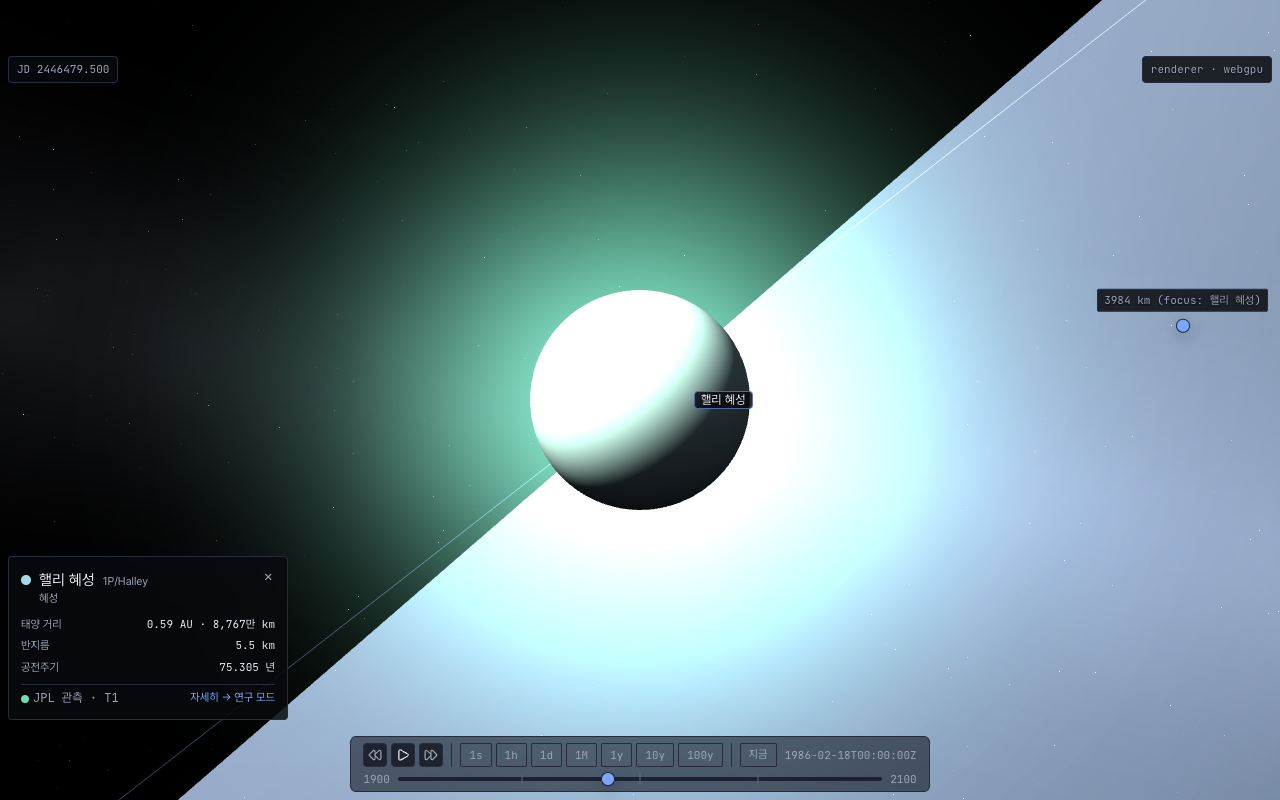
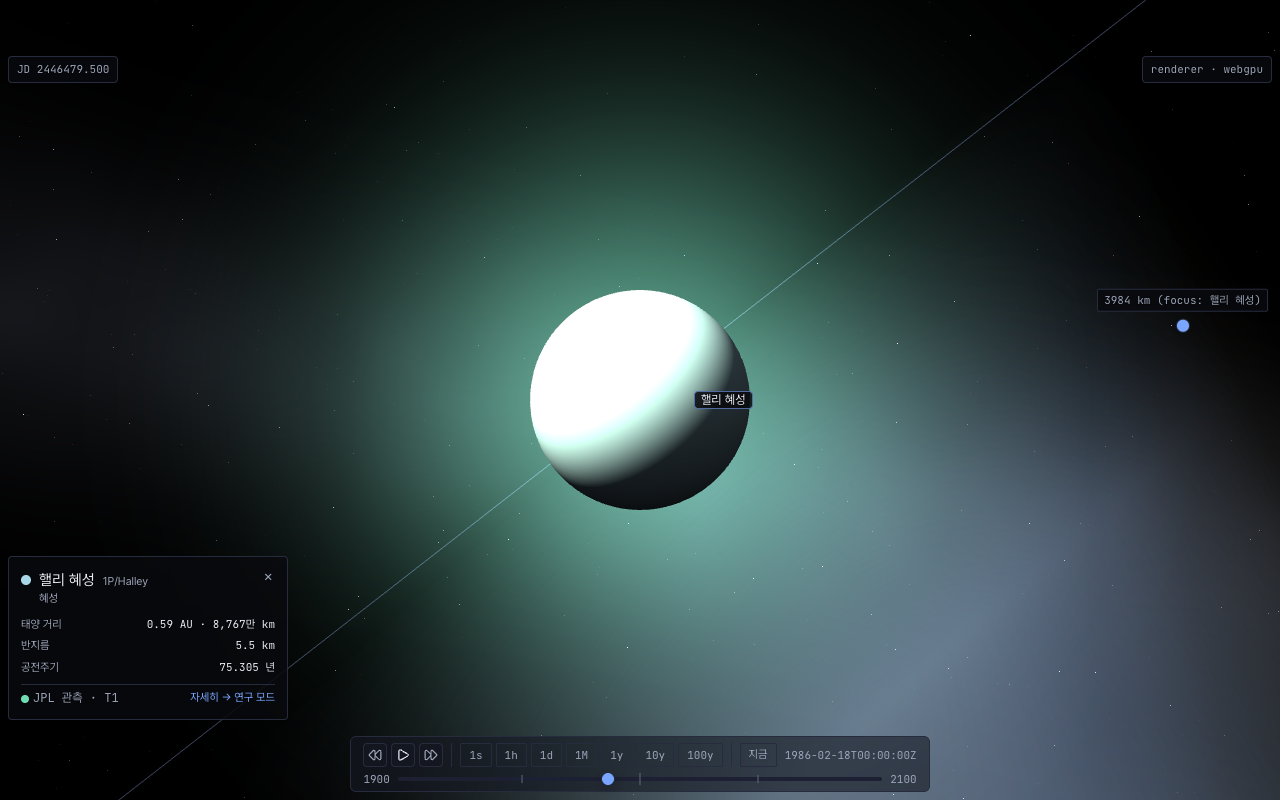
fix(core): #1329 혜성 꼬리 포커스 화면 시각 보정 — 머리 폭 · 머리 세기 · 화면 점유 근접 페이드
원인: 리본 머리(t = 0) 반폭이 꼬리 끝 반폭의 0.25 배로만 정해져 코마 반지름과 무관했다.
핼리 근일점 포커스에서 그 값이 코마 반지름의 4.5 배(이온) · 9 배(먼지)라 리본 끝단이 코마 밖으로
드러나 핵 중심을 지나는 직선 경계가 됐고, 머리 쪽 세기가 최대인 띠가 카메라 근처에서 화면 절반을 덮어
이온 + 먼지 ALPHA_ADD 가 백색으로 포화했다 (PR #1331 리뷰 권고 1 · 사용자 결정 (b)).

- 머리 쪽 반폭 = min(끝 반폭 x 0.25, 코마 반지름) — 0.25 를 COMET_TAIL_HEAD_WIDTH_FRACTION 으로 명명.
- 리본 세기는 머리에서 코마 반지름만큼 가는 동안 0 -> 1 (vHeadFade) — 코마가 머리를 넘겨받는다.
- 리본 · 코마 화면 점유 (반폭 / (깊이 x tan(fov/2))) 가 1 을 넘으면 그 배수만큼 알파를 낮춘다.
  기준은 화면 자신이라 새 임계 없음. uniform uTanHalfFov = 1 / P[1][1].
- 블렌딩 · 피크 알파 불변 (합 1 정규화는 기본 카메라 꼬리 휘도를 절반으로 깎아 기각).
- 상수 근거 주석 (리뷰 권고 4) · 출처 「」 -> 취지 표기 (권고 5).
- CHANGELOG: 보정 전 -> 후 실측 Notes (권고 2), 원일점 진행 0 단계 수 37 -> 36 정정.
- 스크린샷 3장 교체 (같은 구도) + 보정 전/후 포커스 비교 1장.

Refs #1329

diff --git a/packages/core/src/scene/comet-tail.ts b/packages/core/src/scene/comet-tail.ts
@@ -65,25 +65,39 @@ import { LOG_DEPTH_FRAGMENT_WRITE_GLSL } from './log-depth.js';
  * 활동 개시 태양 거리 (AU) — 물 얼음 승화가 혜성 활동을 지배하기 시작하는 거리의 **통상값**.
  * 출처: Meech, K. J. & Svoren, J. (2004), "Using Cometary Activity to Trace the Physical and Chemical Evolution of
  * Cometary Nuclei", in *Comets II* (Festou · Keller · Weaver 편, Univ. Arizona Press), pp. 317–335 —
- * 「약 3 AU 안쪽에서는 물 얼음이 활동의 주 동력」.
+ * 취지: 약 3 AU 안쪽에서는 물 얼음이 활동의 주 동력이다 (요지 — 원문 직접 인용 아님).
  */
 export const COMET_ACTIVITY_ONSET_AU = 3;
 /** 광도 법칙의 정규화 거리 (AU) — `m = M1 + 5 log Δ + 2.5 n log r` 의 `M1` 이 r = 1 AU 기준이라 새 기준이 아니다. */
 const ACTIVITY_NORMALIZATION_AU = 1;
 /** r = 1 AU 에서 이온 꼬리 길이 (AU, 세계 길이 — 줌에 따라 화면 길이가 변한다). 사용자 결정 Q2. */
 export const COMET_ION_TAIL_LENGTH_1AU = 0.3;
-/** 먼지 꼬리 길이 / 이온 꼬리 길이 (D-T2). */
+/**
+ * 먼지 꼬리 길이 / 이온 꼬리 길이. 출발값 = 임의 (이슈 #1329 설계안 박제값, D-T2 에서 확정) — 먼지가 이온보다 짧게
+ * 보이는 통상 모습만 반영했다.
+ */
 export const COMET_DUST_TAIL_LENGTH_RATIO = 0.5;
-/** 먼지 꼬리 끝의 횡변위 / 길이 — `c(t) = head + axis·tL + lag·k·t²L` 의 `k` (D-T2). */
+/**
+ * 먼지 꼬리 끝의 횡변위 / 길이 — `c(t) = head + axis·tL + lag·k·t²L` 의 `k`. 출발값 = 임의 (설계안 박제값, D-T2 에서 확정).
+ */
 export const COMET_DUST_TAIL_CURVE = 0.3;
-/** 이온 꼬리 끝(t = 1) 반폭 / 이온 꼬리 길이. 먼지 꼬리는 이 값의 `COMET_DUST_WIDTH_FACTOR` 배 (결정 3 — 폭은 이온의 2배). */
+/**
+ * 이온 꼬리 끝(t = 1) 반폭 / 이온 꼬리 길이. 출발값 = 임의 (D-T2 에서 확정) — ADR 에 값이 없어 PR1 이 정했다.
+ * 먼지 꼬리는 이 값의 `COMET_DUST_WIDTH_FACTOR` 배 (ADR 결정 3 — 폭은 이온의 2배, 같은 t 에서).
+ */
 export const COMET_ION_TAIL_HALF_WIDTH_RATIO = 0.04;
 export const COMET_DUST_WIDTH_FACTOR = 2;
+/**
+ * 머리 쪽(t = 0) 반폭 / 꼬리 끝 반폭 — 선형으로 넓어진다. 출발값 = 임의 (D-T2 에서 확정). 단 머리 쪽 반폭은 코마 반지름
+ * (화면 하한 적용 후) 을 넘지 않게 자른다 — 포커스 근접에서 리본 끝단이 코마 밖으로 드러나 핵 중심을 지나는 직선 경계가
+ * 생겼다 (PR #1331 리뷰 권고 1 · 사용자 육안). 이 상한은 새 임계가 아니라 이미 있는 코마 반지름이다.
+ */
+export const COMET_TAIL_HEAD_WIDTH_FRACTION = 0.25;
 /** 가시 코마 반지름 차수 (km, r = 1 AU, × a) — 10⁴~10⁵ km. */
 export const COMET_COMA_RADIUS_1AU_KM = 1e5;
 /** 코마 화면 하한 지름 (**물리 px**, × min(a, 1)) — 사용자 결정 Q5 (glow marker 4.5 px 의 ≈ 3.5 배). */
 export const COMET_COMA_MIN_PX_1AU = 16;
-/** 리본 폭 화면 하한 (**물리 px**) — 멀리서 계단 소실 방지. */
+/** 리본 폭 화면 하한 (**물리 px**) — 멀리서 계단 소실 방지. 출발값 = 임의 (1 px 반폭 — 래스터화가 끊기지 않는 최소, D-T2). */
 export const COMET_TAIL_MIN_WIDTH_PX = 2;
 /** 리본 분절 수 (꼬리 1개당). 정점 = (분절 + 1) × 2. */
 export const COMET_TAIL_SEGMENTS = 32;
@@ -92,7 +106,13 @@ export const COMET_TAIL_SEGMENTS = 32;
 export const COMET_ION_RGB: readonly [number, number, number] = [0.35, 0.6, 1.0];
 export const COMET_DUST_RGB: readonly [number, number, number] = [1.0, 0.9, 0.7];
 export const COMET_COMA_RGB: readonly [number, number, number] = [0.55, 1.0, 0.85];
-/** 최대 알파 (밝기 1 기준) — ALPHA_ADD 라 겹치는 곳은 더해진다 (D-T2). */
+/**
+ * 최대 알파 (밝기 1 기준) — ALPHA_ADD 라 겹치는 곳은 더해진다. 출발값 = 임의 (D-T2 에서 확정).
+ * 포커스 화면 백색 포화 (PR #1331 사용자 결정 (b)) 는 이 배율이 아니라 겹침 자체를 줄여 해소했다 — 리본은 머리에서 코마
+ * 반지름만큼 0 → 1 로 켜져 코마 중심과 겹치지 않고 (`vHeadFade`), 화면을 넘는 성분은 근접 페이드로 흐려진다.
+ * 세 피크를 합 1 로 정규화 (0.45 · 0.3 · 0.25) 하는 대안은 기본 카메라 꼬리 휘도를 절반으로 깎아 (핼리 장면 근일점
+ * on − off 휘도 합: 같은 보정에 배율 유지 19,449 · 정규화 9,690) 「solar 화면 모습 유지」 와 충돌해 채택하지 않았다.
+ */
 export const COMET_COMA_PEAK_ALPHA = 0.9;
 export const COMET_ION_PEAK_ALPHA = 0.6;
 export const COMET_DUST_PEAK_ALPHA = 0.5;
@@ -239,15 +259,18 @@ uniform vec3 uAxis;
 uniform vec3 uLag;
 uniform vec4 uShape;
 uniform float uPxWorld;
+uniform float uTanHalfFov;
 
 varying vec2 vUv;
 varying float vKind;
 varying float vAlpha;
+varying float vHeadFade;
 varying float vFragmentDepth;
 
 const float DUST_CURVE = ${COMET_DUST_TAIL_CURVE.toFixed(4)};
 const float ION_HALF_WIDTH_RATIO = ${COMET_ION_TAIL_HALF_WIDTH_RATIO.toFixed(4)};
 const float DUST_WIDTH_FACTOR = ${COMET_DUST_WIDTH_FACTOR.toFixed(4)};
+const float HEAD_WIDTH_FRACTION = ${COMET_TAIL_HEAD_WIDTH_FRACTION.toFixed(4)};
 const float TAIL_MIN_HALF_PX = ${(COMET_TAIL_MIN_WIDTH_PX / 2).toFixed(4)};
 const float COMA_MIN_RADIUS_PX = ${(COMET_COMA_MIN_PX_1AU / 2).toFixed(4)};
 const float SIN_EPS = 1e-4;
@@ -261,14 +284,19 @@ void main(void) {
   float kind = position.z;
   vec3 p = uHead;
   float alpha = brightness;
+  // 코마 반지름 (세계 반지름 vs 화면 하한) — 코마 쿼드와 리본 머리 폭이 같은 값을 쓴다.
+  float headDepth = max((viewProjection * vec4(uHead, 1.0)).w, 0.0);
+  float comaRadius = max(uShape.z, COMA_MIN_RADIUS_PX * brightness * headDepth * uPxWorld);
+  vHeadFade = 1.0;
 
   if (kind < 0.5) {
     // 코마 — 카메라 right/up 평면의 쿼드 (view 행렬의 회전 행 = 카메라 기저, 손잡이 무관).
     vec3 right = vec3(view[0][0], view[1][0], view[2][0]);
     vec3 up = vec3(view[0][1], view[1][1], view[2][1]);
-    float depth = max((viewProjection * vec4(uHead, 1.0)).w, 0.0);
-    float radius = max(uShape.z, COMA_MIN_RADIUS_PX * brightness * depth * uPxWorld);
-    p = uHead + (right * position.x + up * position.y) * radius;
+    p = uHead + (right * position.x + up * position.y) * comaRadius;
+    // 카메라 근접 페이드 (화면 점유) — 리본과 같은 규칙. 코마가 화면 높이를 넘으면 넘는 배수만큼 흐려진다.
+    float comaCover = comaRadius / max(headDepth * uTanHalfFov, 1e-30);
+    alpha *= clamp(1.0 / max(comaCover, 1e-30), 0.0, 1.0);
     vUv = position.xy;
   } else {
     float t = position.x;
@@ -289,10 +317,20 @@ void main(void) {
     vec3 sideDir = sinTheta > SIN_EPS ? s / sLen : vec3(0.0);
     float depth = max((viewProjection * vec4(c, 1.0)).w, 0.0);
     float widthFactor = dust ? DUST_WIDTH_FACTOR : 1.0;
-    float halfWorld = uShape.x * ION_HALF_WIDTH_RATIO * widthFactor * (0.25 + 0.75 * t);
+    float tipHalf = uShape.x * ION_HALF_WIDTH_RATIO * widthFactor;
+    // 머리에서 가늘게 — 머리 쪽 반폭은 코마 반지름 이하 (리본 끝단이 코마 밖으로 드러나지 않게).
+    float headHalf = min(tipHalf * HEAD_WIDTH_FRACTION, comaRadius);
+    float halfWorld = mix(headHalf, tipHalf, t);
     float halfWidth = max(halfWorld, TAIL_MIN_HALF_PX * depth * uPxWorld);
     p = c + sideDir * (side * halfWidth);
-    alpha *= sinTheta;
+    // 카메라 근접 페이드 (화면 점유) — 이 지점의 리본 폭이 화면 높이를 넘으면 넘는 배수만큼 흐려진다.
+    // 점유율 = 반폭 / (깊이 · tan(fov/2)). 기준은 화면 자신이라 새 임계가 아니다. 기본 카메라 (solar) 는 리본 폭이
+    // 수 px 라 1 (무변화). 카메라 뒤 (깊이 0) 는 0.
+    float cover = halfWidth / max(depth * uTanHalfFov, 1e-30);
+    float nearFade = clamp(1.0 / max(cover, 1e-30), 0.0, 1.0);
+    alpha *= sinTheta * nearFade;
+    // 머리 세기 — 머리에서 코마 반지름만큼 가는 동안 0 → 1 (fragment 에서 clamp). 코마가 머리를 넘겨받는다.
+    vHeadFade = comaRadius > 0.0 ? (t * len) / comaRadius : 1.0;
     vUv = vec2(t, side);
   }
 
@@ -315,6 +353,7 @@ precision highp float;
 varying vec2 vUv;
 varying float vKind;
 varying float vAlpha;
+varying float vHeadFade;
 varying float vFragmentDepth;
 
 uniform float logDepthConstant;
@@ -337,7 +376,7 @@ void main(void) {
     intensity = COMA_PEAK * exp(-4.0 * r2) * (1.0 - r2);
     color = uComaColor;
   } else {
-    float along = (1.0 - vUv.x) * (1.0 - vUv.x);
+    float along = (1.0 - vUv.x) * (1.0 - vUv.x) * clamp(vHeadFade, 0.0, 1.0);
     float across = 1.0 - vUv.y * vUv.y;
     bool dust = vKind > 1.5;
     intensity = (dust ? DUST_PEAK : ION_PEAK) * along * across;
@@ -413,6 +452,8 @@ export interface CometTailUniforms extends CometTailFrame {
   scale: number;
   /** 깊이 1 에서 물리 px 1개의 세계 길이. */
   pxWorld: number;
+  /** 깊이 1 에서 화면 반높이의 세계 길이 (tan(fov/2)) — 근접 페이드 기준. */
+  tanHalfFov: number;
   logDepthConstant: number;
 }
 
@@ -459,6 +500,7 @@ export function createCometTail(scene: Scene, options: CometTailOptions): CometT
         'uLag',
         'uShape',
         'uPxWorld',
+        'uTanHalfFov',
         'logDepthConstant',
         'uComaColor',
         'uIonColor',
@@ -492,6 +534,8 @@ export function createCometTail(scene: Scene, options: CometTailOptions): CometT
     // 투영 행렬 [1][1] = 1/tan(fov/2) (scene 쪽 사본은 첫 render 전 미정이라 카메라에서 읽는다).
     const p11 = scene.activeCamera?.getProjectionMatrix().m[5] ?? 0;
     const pxWorld = p11 > 0 ? 2 / (p11 * height) : 0;
+    // 화면 반높이의 깊이 1 세계 길이 = tan(fov/2) = 1 / P[1][1] (근접 페이드의 화면 점유 기준).
+    const tanHalfFov = p11 > 0 ? 1 / p11 : 0;
     const maxZ = scene.activeCamera?.maxZ ?? 1e14;
     const logDepthConstant = 2.0 / (Math.log(maxZ + 1.0) / Math.LN2);
     tmpHead.set(frame.head[0], frame.head[1], frame.head[2]);
@@ -503,12 +547,14 @@ export function createCometTail(scene: Scene, options: CometTailOptions): CometT
     tmpShape.set(frame.ionLength, frame.dustLength, frame.comaRadius, frame.activity);
     material.setVector4('uShape', tmpShape);
     material.setFloat('uPxWorld', pxWorld);
+    material.setFloat('uTanHalfFov', tanHalfFov);
     material.setFloat('logDepthConstant', logDepthConstant);
     lastUniforms = {
       ...frame,
       sun: [s.x, s.y, s.z],
       scale,
       pxWorld,
+      tanHalfFov,
       logDepthConstant,
     };
   };

diff --git a/packages/core/src/scene/comet-tail.test.ts b/packages/core/src/scene/comet-tail.test.ts
@@ -29,6 +29,7 @@ import {
   COMET_DUST_TAIL_LENGTH_RATIO,
   COMET_ION_TAIL_LENGTH_1AU,
   COMET_TAIL_SEGMENTS,
+  COMET_TAIL_FRAGMENT_SHADER,
   COMET_TAIL_VERTEX_SHADER,
   buildCometTailGeometry,
   cometActivity,
@@ -211,6 +212,27 @@ describe('정점 셰이더 — a = 0 접기 · 축 정면 퇴화 분기 (결정 
     expect(COMET_TAIL_VERTEX_SHADER).toContain('vAlpha = alpha * on;');
     expect(COMET_TAIL_VERTEX_SHADER).toContain('sinTheta > SIN_EPS ? s / sLen : vec3(0.0)');
   });
+
+  it('PR #1331 포커스 보정 — 머리 반폭 ≤ 코마 반지름 · 머리 세기 0 → 1 · 화면 점유 근접 페이드 (리본 · 코마)', () => {
+    // 1. 머리에서 가늘게 — 끝단이 코마 밖으로 드러나지 않는다 (핵 중심 직선 경계 제거).
+    expect(COMET_TAIL_VERTEX_SHADER).toContain(
+      'float headHalf = min(tipHalf * HEAD_WIDTH_FRACTION, comaRadius);',
+    );
+    expect(COMET_TAIL_VERTEX_SHADER).toContain('float halfWorld = mix(headHalf, tipHalf, t);');
+    // 머리 세기 — 코마 반지름만큼 가는 동안 0 → 1.
+    expect(COMET_TAIL_VERTEX_SHADER).toContain(
+      'vHeadFade = comaRadius > 0.0 ? (t * len) / comaRadius : 1.0;',
+    );
+    expect(COMET_TAIL_FRAGMENT_SHADER).toContain('clamp(vHeadFade, 0.0, 1.0)');
+    // 2. 근접 페이드 — 화면 점유 (반폭 / (깊이 · tan(fov/2))) 가 1 을 넘는 배수만큼.
+    expect(COMET_TAIL_VERTEX_SHADER).toContain(
+      'float cover = halfWidth / max(depth * uTanHalfFov, 1e-30);',
+    );
+    expect(COMET_TAIL_VERTEX_SHADER).toContain('alpha *= sinTheta * nearFade;');
+    expect(COMET_TAIL_VERTEX_SHADER).toContain(
+      'float comaCover = comaRadius / max(headDepth * uTanHalfFov, 1e-30);',
+    );
+  });
 });
 
 // ── NullEngine ─────────────────────────────────────────────────────────────────────────────────────────
@@ -305,6 +327,10 @@ describe('createCometTail — 메시 · 머티리얼 계약 (NullEngine)', () =>
       2 / (f.scene.activeCamera!.getProjectionMatrix().m[5]! * 720),
       12,
     );
+    // 근접 페이드 기준 — tan(fov/2) = 1 / P[1][1].
+    expect(u.tanHalfFov).toBeCloseTo(1 / f.scene.activeCamera!.getProjectionMatrix().m[5]!, 12);
+    // 투영 행렬이 float32 저장이라 fov 해석식과는 float32 반올림 차수 (≈ 1e-8) 만 다르다.
+    expect(u.tanHalfFov).toBeCloseTo(Math.tan(f.scene.activeCamera!.fov / 2), 6);
   });
 });
 

diff --git a/CHANGELOG.md b/CHANGELOG.md
@@ -10,15 +10,24 @@ Semantic Versioning을 따른다.
 - **[#1329] 혜성 꼬리 · 코마 렌더 경로 + 소프트웨어 게이트 + `?comettails=` (PR1)** ([#1329](https://github.com/coseo12/astro-simulator/issues/1329)). 혜성 (`kind: 'comet'` 전수 — 핼리 · 엔케 · 스위프트-터틀) 마다 메시 1 · GLSL `ShaderMaterial` 1 (코마 쿼드 + 이온 리본 + 먼지 리본, 정점 136 · 삼각형 130) 을 그린다 (`packages/core/src/scene/comet-tail.ts`). 정점 셰이더가 중심선 `c(t) = head + axis·tL + lag·k·t²L` 을 해석적으로 계산해 view(세계) 공간에서 펼친다. ALPHA_ADD · depth write off · `isPickable = false` · `alwaysSelectAsActiveMesh`. ADR [`20261010-1329`](docs/decisions/20261010-1329-comet-tail-coma.md) 결정 1 – 4.
   - 기준계 (결정 2): draw 직전 (`onBeforeRenderObservable`) 에 혜성 · 태양 mesh `position` 과 `bodyFrame.scale` 만 읽는다. `floatingOrigin.originOffset` 재-read 없음, 시간 위상 (`updateAt`) 무관. 궤도면 법선 ĥ 는 로드 시 1회 `orbitalStateAt` 로 구한 상수다 (N-body 경로에서도).
   - 활동도 (결정 3): `a(r) = max(0, ln(3 AU / r) / ln 3)`. 이온 꼬리 길이 `0.3 AU × a` (세계 길이), 먼지 = 이온 × 0.5 · 휨 0.3, 코마 세계 반지름 `1e5 km × a` · 화면 하한 지름 16 물리 px × min(a, 1), 밝기 min(a, 1). 색: 이온 청색 · 먼지 백황색 · 코마 청록. 상수는 전부 rendering-only (`solar-system.json` 무변경) 이고 최종값은 사용자 육안 (D-T2) 대상이다. 꼬리 길이는 관측 차수 (0.1 AU 이상) 안의 **표시 근사**다.
+  - 카메라 근접 시각 보정 (PR 리뷰 라운드 · 사용자 결정 (b) — ADR 재검토 트리거 2 발화): ① 리본 머리 쪽 반폭을 코마 반지름 (화면 하한 적용 후) 이하로 자르고 꼬리 끝까지 선형으로 넓힌다 (`COMET_TAIL_HEAD_WIDTH_FRACTION = 0.25`, 초판 셰이더의 `0.25` 를 상수로 이름 붙임). ② 리본 세기는 머리에서 코마 반지름만큼 가는 동안 0 → 1 로 켜져 코마가 머리를 넘겨받는다 — 핵 중심을 지나던 리본 끝단의 직선 경계가 사라진다. ③ 리본 · 코마 모두 화면 점유 (`반폭 / (깊이 · tan(fov/2))`) 가 1 을 넘으면 넘는 배수만큼 알파를 낮춘다 (기준이 화면 자신이라 새 임계 없음, 기본 카메라는 1). 블렌딩 (ALPHA_ADD) · 피크 알파는 그대로다 — 피크를 합 1 로 정규화하는 대안은 기본 카메라 꼬리 휘도를 절반으로 깎아 채택하지 않았다.
   - `a = 0` (r ≥ 3 AU) 이면 정점 셰이더가 모든 꼭짓점을 머리로 접어 면적 0 으로 만든다. `isVisible = false` 로 끄지 않는다 — Babylon 9.19 는 그 메시의 `onBeforeRenderObservable` 을 알리지 않아 근일점에 와도 다시 켜지지 않는다 (§교차검증 수용 1). 토글 OFF (`setEnabled`, PR2) 와는 다른 경로다.
   - 소프트웨어 렌더 게이트 (결정 4): web 이 판정해 core 옵션 `cometTails` 로 넘긴다 (core 기본 false). 파서 `apps/web/src/core/parse-comet-tails-mode.ts` — 미지정 · `on` → 켜짐 / `off` → 꺼짐 / `force` → 켜짐 + 게이트 우회 / 그 외 → 켜짐 + warn. sim-canvas 의 `new URLSearchParams` 증가 0 (#850). 장면 핸들 `getCometTails()` 추가 (진단 · 테스트용).
   - CI 강제 셀 (§교차검증 수용 2): `verify-fps-baseline` 에 desktop `comet-forced` (`?t=2446479.5&comettails=force` — 핼리 장면 근일점) 1 셀. 전제 = 꼬리 메시 3 개 활성 + 머티리얼 준비 (`requireMaterialReady` — 셰이더 컴파일 실패 시 꼬리 없는 장면을 재는 fail-open 차단). 판정 규칙 · 임계 불변 (새 임계 0). baseline `55.6` 은 CI 진단 run 38060206686 (variance N=5, p50 · min `51.1` · max `57.4`, `requiredMeshes=3`). 실측: 정상 exit 0 · 쿼리를 `comettails=off` 로 바꾼 사본 exit 1 (`활성 0개 (요구 3 · 머티리얼 준비 포함)`).
-  - 실측 (prod 빌드 · Playwright headless · 1280×800 · metal WebGPU): 핼리 장면 근일점 기본 카메라 꼬리 축 화면 각도 오차 `0°` · 이온 꼬리 `99 px` · 엔케 장면 근일점 (`t=2461445.5`) `212 px`. 기준계 5단계 (정지 · 정지 중 핼리 포커스 · body tier 재생 · 재생 중 지구 포커스 · 정지) 4,287 프레임에서 머리 상대오차 최대 `5.1e-8` · 축 `2.4e-6°`. J2000 `?speed=0` 꼬리 on/off 같은 프레임 픽셀 차 `0`. 원일점 (`t=2460288.5`) → 장면 근일점 2061-06-09 까지 1 년 간격 진행 시 활동도 `0` (37 단계) → `1.486`, 머리 주변 on/off 차 `1,168 px`. 콘솔 오류 0 (metal WebGPU · 하드웨어 WebGL2 · swiftshader `force`). `bench:scene` 하드웨어 A/B (기본 vs `?comettails=off`, metal WebGPU · vsync 해제 · 3회 중앙값) 5 셀 비 `0.946` (idle) · `0.969` · `0.968` · `0.964` · `0.960`. ⚠ `bench:scene` 의 기본 launch 는 macOS headless 에서 **소프트웨어 렌더**라 (`__isSoftwareRenderer = true`) 게이트로 꼬리가 생기지 않는다 — 하드웨어 A/B 는 `--use-angle=metal` 을 더한 실행으로만 성립한다. 핼리 근일점 2 셀 rAF A/B (같은 페이지 on/off 3회 교차): vsync 120 Hz 상한에서 solar · 포커스 모두 `1.000` (metal WebGPU · 하드웨어 WebGL2). vsync 를 풀면 포커스 (꼬리 띠가 화면 절반) 에서 WebGPU `0.82` · WebGL2 `0.69` (프레임당 `+0.05 ms` · `+0.55 ms` — 반투명 화면 면적 비용).
+  - 실측 (prod 빌드 · Playwright headless · 1280×800 · metal WebGPU): 핼리 장면 근일점 기본 카메라 꼬리 축 화면 각도 오차 `0°` · 이온 꼬리 `99 px` · 엔케 장면 근일점 (`t=2461445.5`) `212 px`. 기준계 5단계 (정지 · 정지 중 핼리 포커스 · body tier 재생 · 재생 중 지구 포커스 · 정지) 4,287 프레임에서 머리 상대오차 최대 `5.1e-8` · 축 `2.4e-6°`. J2000 `?speed=0` 꼬리 on/off 같은 프레임 픽셀 차 `0`. 원일점 (`t=2460288.5`) → 장면 근일점 2061-06-09 까지 1 년 간격 진행 시 활동도 `0` (36 단계) → `1.486`, 머리 주변 on/off 차 `1,168 px`. 콘솔 오류 0 (metal WebGPU · 하드웨어 WebGL2 · swiftshader `force`). `bench:scene` 하드웨어 A/B (기본 vs `?comettails=off`, metal WebGPU · vsync 해제 · 3회 중앙값) 5 셀 비 `0.946` (idle) · `0.969` · `0.968` · `0.964` · `0.960`. ⚠ `bench:scene` 의 기본 launch 는 macOS headless 에서 **소프트웨어 렌더**라 (`__isSoftwareRenderer = true`) 게이트로 꼬리가 생기지 않는다 — 하드웨어 A/B 는 `--use-angle=metal` 을 더한 실행으로만 성립한다. 핼리 근일점 2 셀 rAF A/B (같은 페이지 on/off 3회 교차): vsync 120 Hz 상한에서 solar · 포커스 모두 `1.000` (metal WebGPU · 하드웨어 WebGL2, 보정 전 측정). vsync 를 푼 수치는 아래 Notes.
   - 테스트: `comet-tail.test.ts` (활동도 · ĥ · 기준계 순수 함수 · 먼지 휨 방향 = 궤도 운동 반대 (역행 핼리 포함) · 길이 비 · 메시 · 머티리얼 · 재활성) · `solar-system-scene-comet-tails.test.ts` (전 comet 커버 · 로드 옵션 · 기준계 5 단계 · 장면 경로 재활성 · dispose) · `parse-comet-tails-mode.test.ts`. 변이 확인: `isVisible = activity > 0` 을 넣으면 재활성 단위 2건 FAIL, 같은 변이의 prod 빌드에서 근일점 활동도 `0` · on/off 차 `0`.
 
 ### Behavior Changes
 
 - 하드웨어 렌더 환경의 기본 화면에 혜성 꼬리 · 코마가 생긴다. J2000 첫 프레임은 불변이다 (세 혜성 모두 화면 밖 또는 r ≥ 3 AU — on/off 같은 프레임 픽셀 차 0). 기본 재생을 이어 가면 엔케가 안쪽으로 들어오며 (J2000 + 16 일에 3 AU 통과) 꼬리가 자라고 + 130 일 무렵 화면에 들어온다 (사용자 결정 Q6). `?comettails=off` 로 끈다. 소프트웨어 렌더 (swiftshader · llvmpipe 등) 에서는 기본적으로 만들지 않는다.
+
+### Notes
+
+- **[#1329] 포커스 화면 보정 전 → 후 실측** (prod 빌드 · Playwright headless · 1280×800 · 같은 구도 `?t=2446479.5&speed=0&focus=halley`, 꼬리 on/off 같은 프레임 대조). 보정 전에는 핼리 포커스에서 꼬리 띠가 화면 절반을 덮고 이온 + 먼지 ALPHA_ADD 겹침으로 거의 백색으로 포화했으며, 리본 머리 끝단이 핵 중심을 지나는 직선 경계로 보였다 (머리 쪽 반폭이 코마 반지름의 4.5 배 · 9 배). 미래 관찰자가 「꼬리가 흐려졌다」 를 회귀로 오인하지 않도록 수치를 남긴다.
+  - metal WebGPU: 채널 최소 ≥ 250 포화 픽셀 증가 (on − off) `22,193 → 1` · 꼬리 기여 (채널 차 ≥ 8) 면적 `76.1 % → 66.7 %` · 핵 원반 밖 머리 ±160 px 창의 꼬리 기여 휘도 인접 화소 최대 차 (끝단 경계 척도) `141.1 → 12.9`. 하드웨어 WebGL2 · swiftshader `force` 보정 후 포화 증가 `2` · `0`.
+  - 줌 스윕 (핼리 · 엔케 포커스 반경 × 1 · 3 · 10 · 30 · 100 · 300 · 1000, 보정 후): 포화 증가 최대 `5` 픽셀. 엔케 포커스 (반경 × 1) 는 코마가 화면 전체를 덮는데 (기여 면적 `90 %`) 근접 페이드로 옅은 안개가 된다 (포화 증가 `0`).
+  - 기본 카메라 (보정 후, 꼬리 기여 휘도 합): 핼리 장면 근일점 `20,174 → 19,449` (−3.6 %) · 엔케 장면 근일점 `72,948 → 70,762` (−3.0 %), 기여 면적 불변 (`0.06 %` · `0.21 %`). D1 축 오차 `0°` · 이온 꼬리 `99 px` 불변.
+  - vsync 해제 포커스 rAF A/B (같은 세션, 3회 중앙값): WebGPU `0.783 → 0.876` (프레임당 `+0.063 → +0.036 ms`) · 하드웨어 WebGL2 `0.754 → 0.712` (`+0.387 → +0.515 ms`). **fill-rate 비용은 줄지 않았다** — 보정은 알파를 낮출 뿐 덮는 면적 (위 `66.7 %`) 은 그대로라서다 (WebGL2 쪽 변화는 측정 잡음 범위로 본다). ADR §결과의 「하드웨어 프레임 비용 0」 은 vsync 상한 안의 측정 (1-E) 이고, 상한 밖에서는 포커스 화면에 프레임당 수백 µs 가 든다. 재검토 트리거 1 (`bench:scene` −10 %) 은 발화하지 않았다.
 
 ## [0.96.0] - 2026-10-10
 
